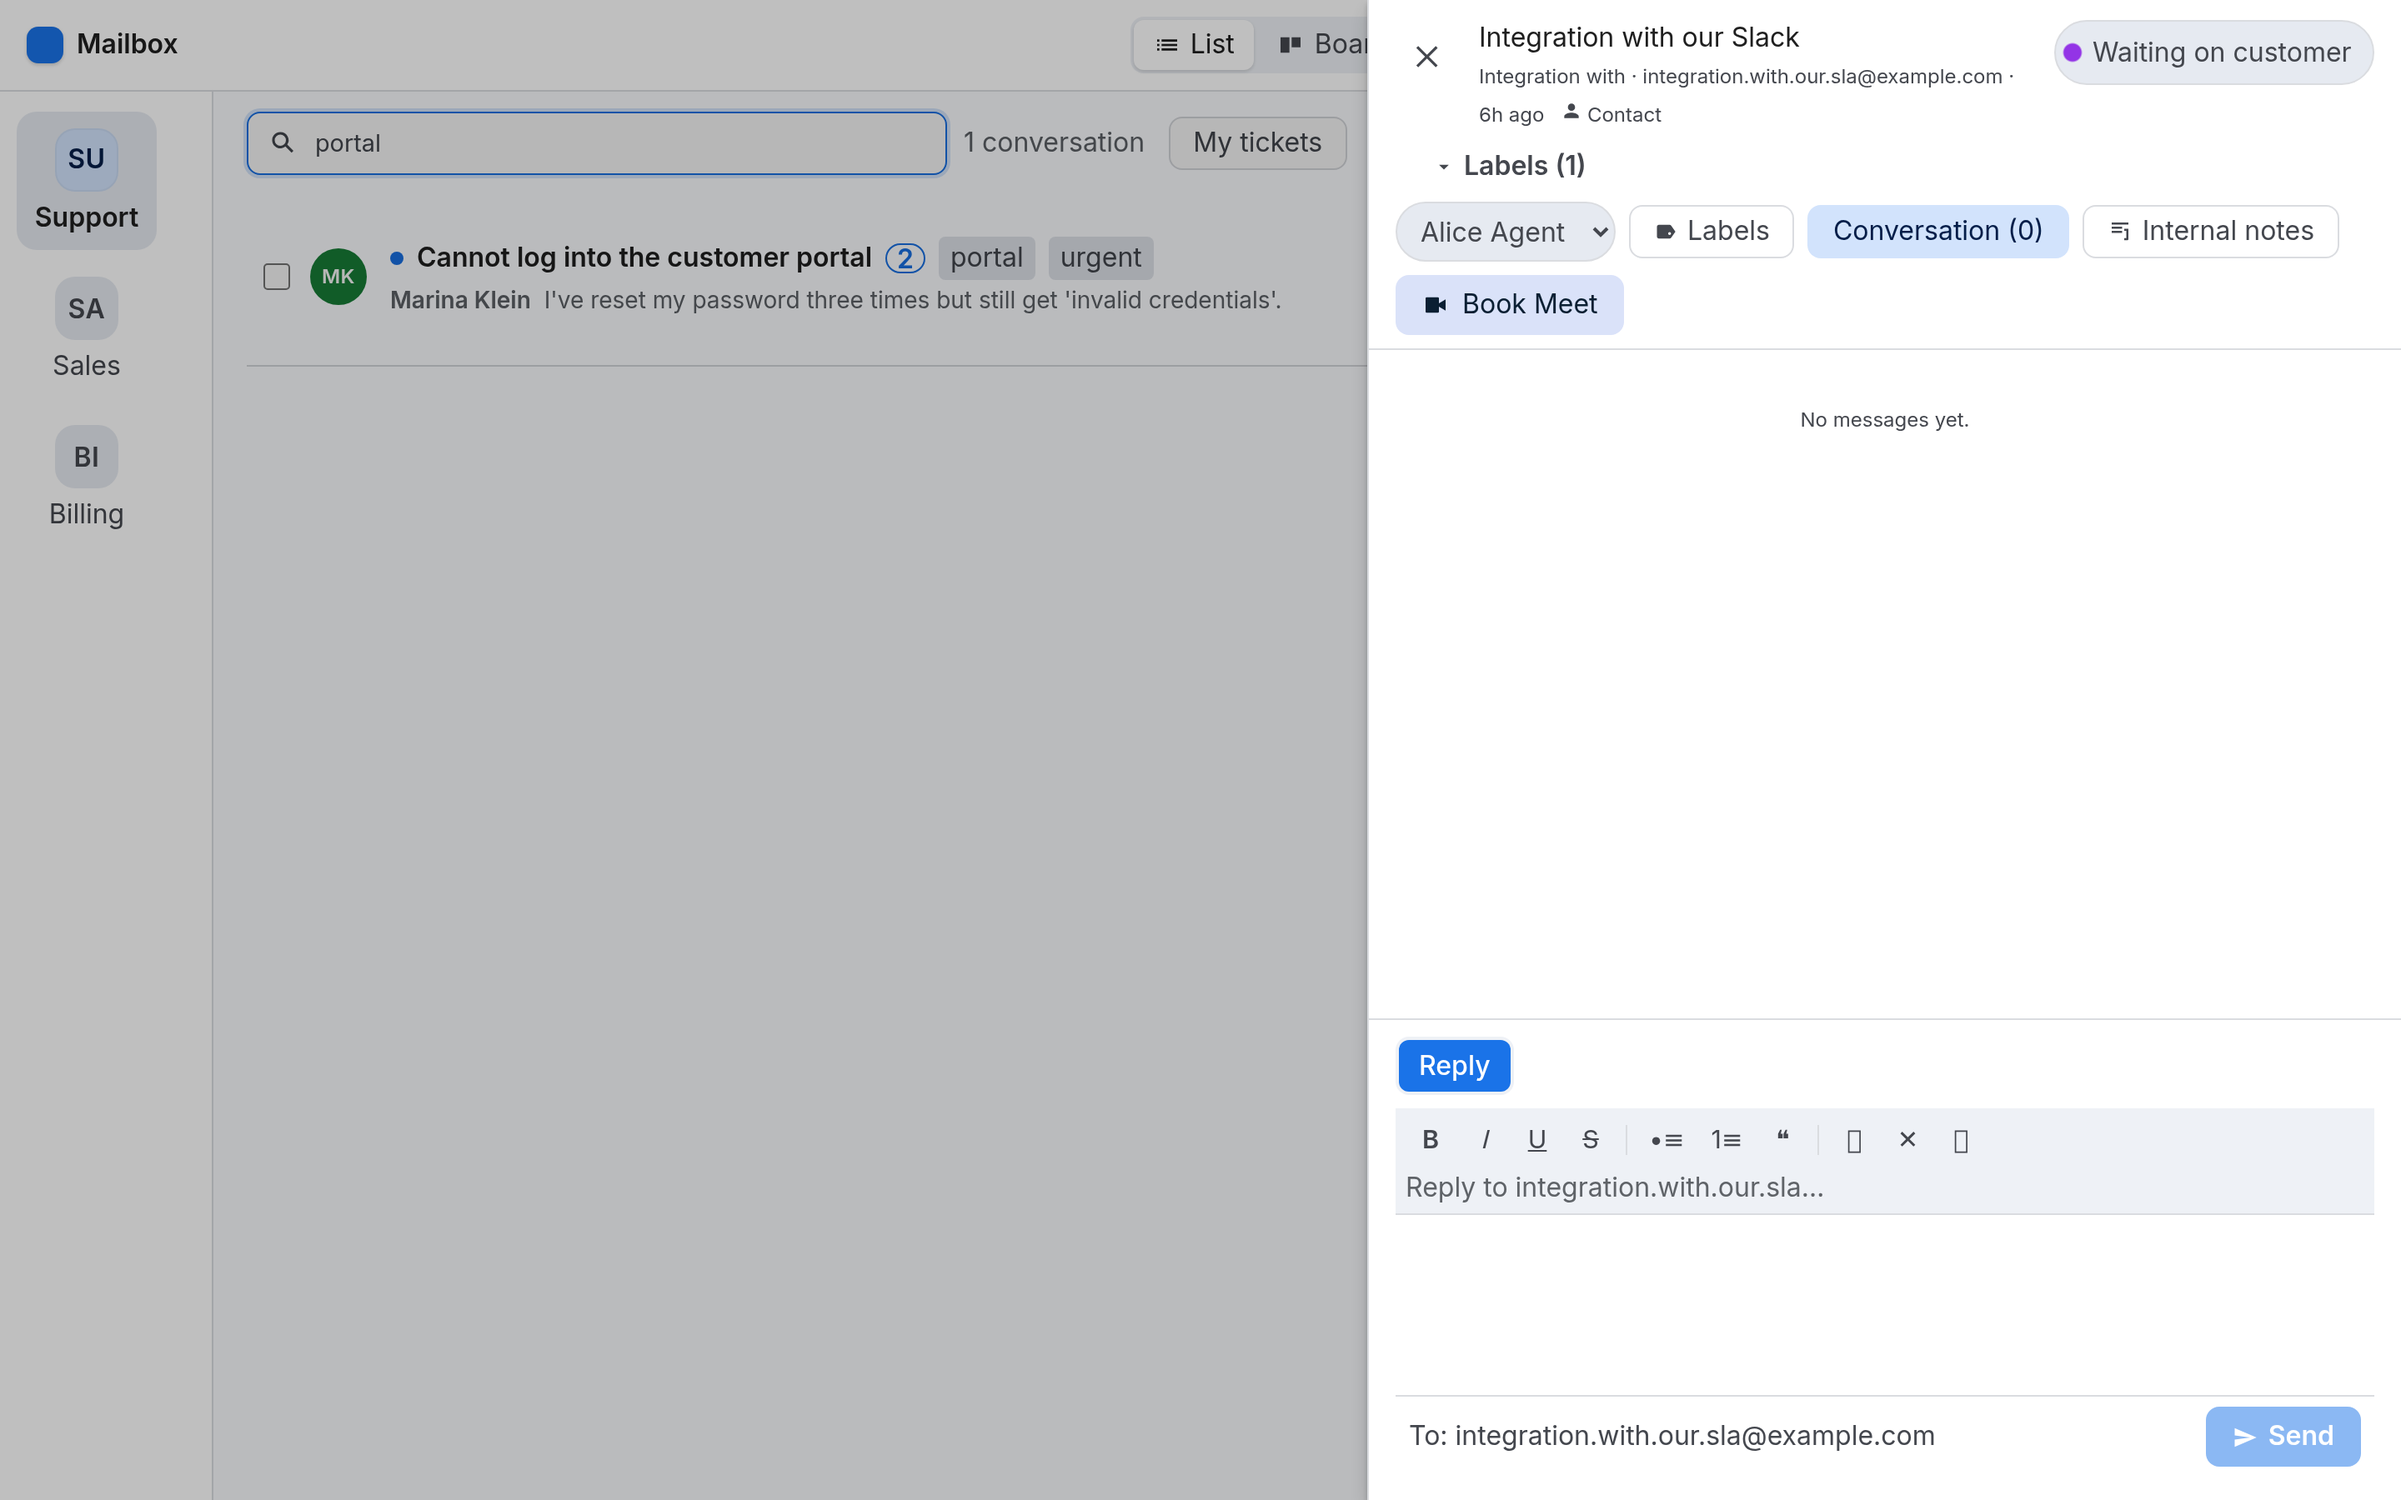
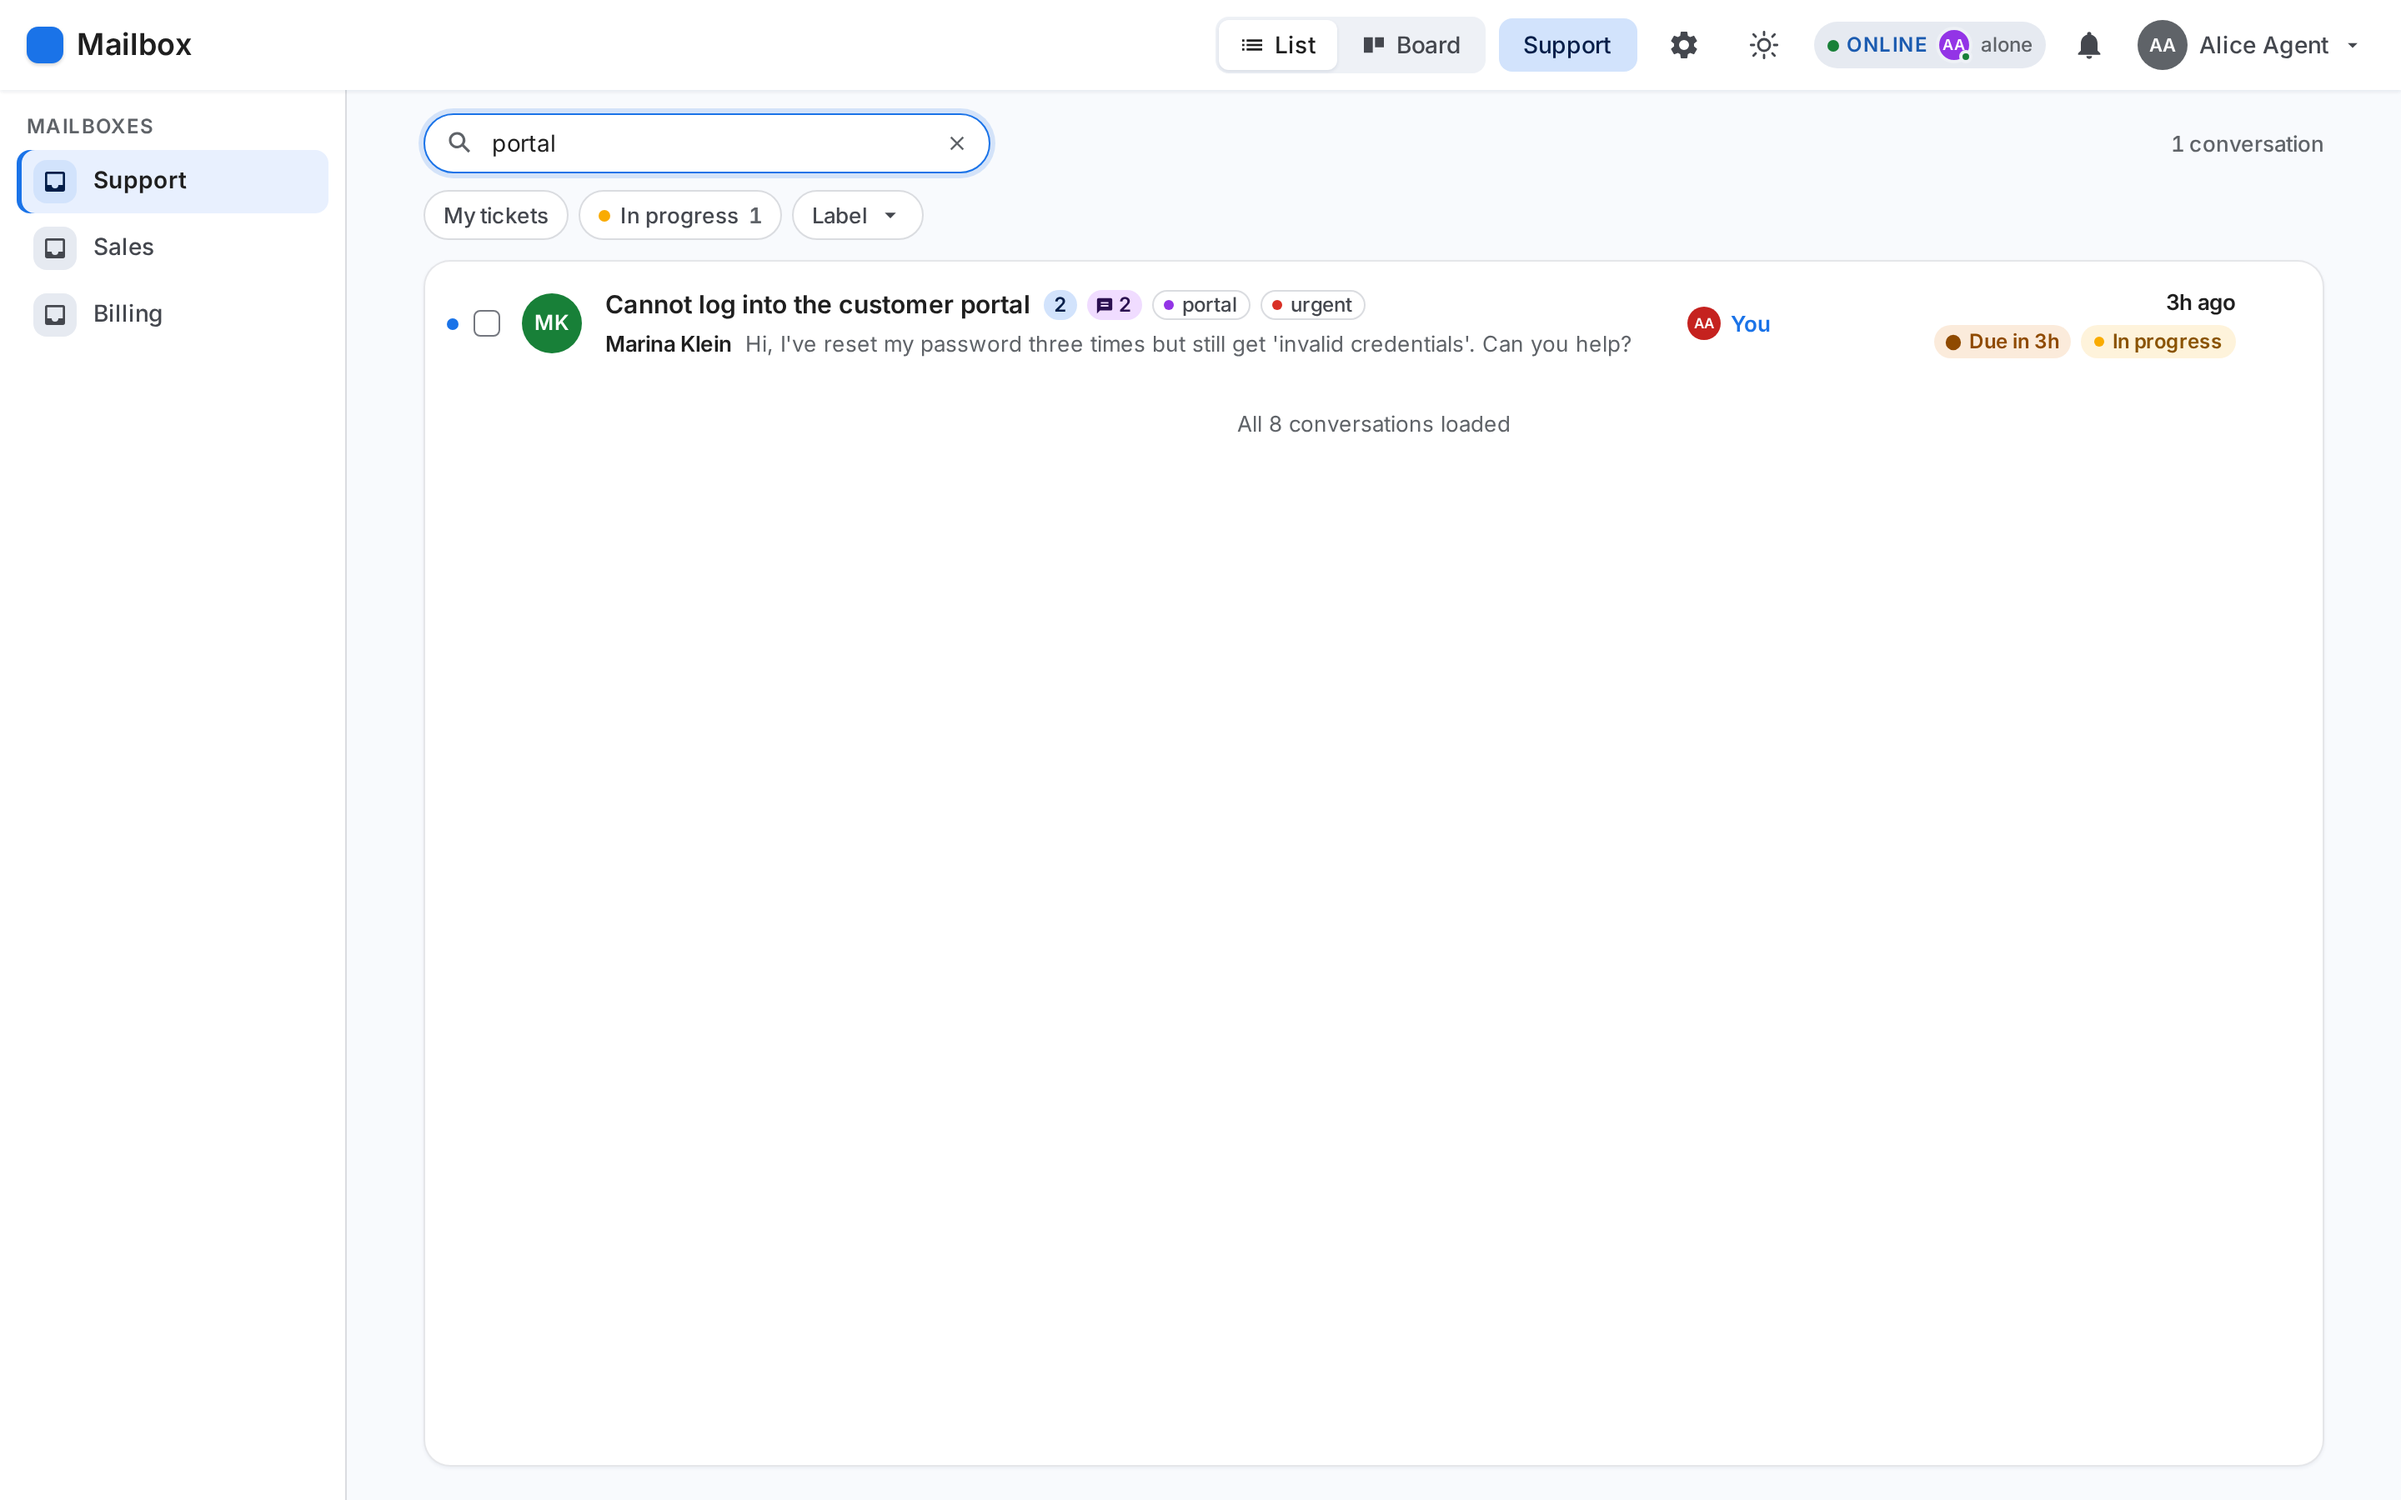
docs: retake all screenshots for the redesigned UI; update user guide
- Retake docs/screenshots/01–15 (same scenes and 2880x1800 size).
- User guide: ⋮ quick actions, phone tap-to-select, renamed bulk actions,
  conversation header/tabs, board keyboard shortcuts and Select mode.
- FEATURES.md: UI changes and a new Accessibility section.

diff --git a/docs/USER_GUIDE.md b/docs/USER_GUIDE.md
@@ -37,11 +37,11 @@ Sign in with your email + password, or **Continue with Google** if your admin ha
 |---|---|
 | **Left rail** | Your mailboxes (Support, Sales, Billing…). Click to switch. |
 | **Top bar** | **List / Board** toggle, the active mailbox name, ⚙ Settings, theme toggle, presence, notifications bell, and your account menu. |
-| **Toolbar** | Search, **My tickets**, status filter chips, and the conversation count. |
-| **Rows** | One conversation each: customer, subject, snippet, labels, assignee, status, SLA chip, time. |
-| **Hover a row** | A **⋯** button appears — assign or label the ticket without opening it. |
+| **Toolbar** | Search and the conversation count on top; **My tickets**, status and **Label** filter chips underneath. |
+| **Rows** | One conversation each: subject, message/note counts, labels, customer and snippet, assignee, and on the right the time, status and SLA chip. A blue dot in the left gutter marks new messages. |
+| **Hover a row** | A **⋮** button appears — assign or label the ticket without opening it. |
 
-**Keyboard/touch note:** on phones and tablets the **⋯** button is always visible (there's no hover on touch).
+**Phones:** rows show sender and time, then subject, snippet and a line of status/SLA chips. Tap a customer's **avatar** to select that conversation (it turns into a ✓) — the bulk bar appears. The **⋮** button is always visible on touch screens.
 
 ---
 
@@ -57,13 +57,13 @@ Type anything — subject, customer name, email, or snippet. The count at the to
 
 - **My tickets** — only conversations assigned to *you*.
 - **Status chips** (New / In progress / Waiting on customer / Escalated / Closed) — click to filter by status; click again to clear.
-- **Label chip** — click a label (e.g. `#billing`) to see only those conversations.
+- **Label** chip — opens the label list; pick one (e.g. `billing`) to see only those conversations.
 
-### Quick actions (⋯)
+### Quick actions (⋮)
 
 ![Quick actions](screenshots/03-quick-actions.png)
 
-Hover any row and click the **⋯** to, **without opening the thread**:
+Hover any row and click the **⋮** to, **without opening the thread**:
 
 - **Assign** the conversation to an agent (or Unassigned)
 - **Toggle labels** on/off
@@ -78,11 +78,11 @@ Click any conversation to open it on the right. The list stays visible on the le
 
 ![Thread drawer](screenshots/08-thread-drawer.png)
 
-**Header** — subject, customer, **Contact** (opens the contact panel with tags + related cases), and the status pill (click to change status).
+**Header** — subject and customer, then a row of controls: **status** (click to change), **assignee**, and **Contact** (opens the contact panel with tags + related cases).
 
-**Toolbar** — *Unassigned*/assignee, **Labels**, **Conversation** / **Internal notes** tabs, **Book Meet**.
+**Tabs** — **Conversation** / **Internal notes** (use ←/→ to switch), and **Details** for **Labels**, **Book Meet** and previous tickets. Press **Esc** to close the conversation (an open panel such as Contact closes first).
 
-**Conversation** — every message in order (oldest → newest). Attachments from customers appear as downloadable chips. Internal notes are shown in a distinct style and are never emailed.
+**Conversation** — every message in order (oldest → newest). Customer messages are white cards; your team's replies are tinted blue and tagged **Team reply**, so the back-and-forth reads at a glance. Attachments from customers appear as downloadable chips. Internal notes are shown in a distinct style and are never emailed.
 
 ### Replying
 
@@ -113,7 +113,18 @@ Each column is a status. Cards show the customer, subject, snippet, labels, assi
 
 ### Moving tickets
 
-**Drag a card onto another column** to change its status. The change saves immediately and shows up in every other open session within a few seconds.
+**Drag a card onto another column** to change its status — or, from the keyboard, select a card and press **Shift + ← / →**. The change saves immediately and shows up in every other open session within a few seconds.
+
+### Keyboard
+
+| Keys | Action |
+|---|---|
+| **← / →** | Move to the nearest card in the next lane (empty lanes are skipped) |
+| **↑ / ↓**, **Home / End** | Previous / next card in the lane; first / last |
+| **Shift + ← / →** | Move the selected card to the adjacent lane |
+| **Enter** | Open the conversation (**Esc** closes it and returns you to the card) |
+
+On phones the board shows one lane at a time — swipe sideways; it opens on the first lane that has conversations.
 
 ### Show / hide columns
 
@@ -123,7 +134,7 @@ Click **Columns** in the board toolbar to tick/untick statuses (each shows a liv
 
 ### Select mode
 
-Click **Select…** to check multiple cards (drag is disabled while selecting), then use the bulk bar at the top.
+Click **Select** in the board toolbar to check multiple cards (drag is disabled while selecting), then use the bulk bar at the top. Click **Done** to leave select mode.
 
 ---
 
@@ -151,15 +162,15 @@ Perfect for initial clean-up after connecting a mailbox.
 
 ![Bulk select](screenshots/05-bulk-select.png)
 
-1. Tick individual rows, or use **Select all N matching** after a search — this selects *every* conversation matching your filters, not just the visible ones.
+1. Tick individual rows (on phones, tap the avatars), or use **Select all N** after a search — this selects *every* conversation matching your filters, not just the visible ones.
 2. Choose an action:
    - **Close** — mark resolved
    - **Archive** — out of the way, still searchable (Archived chip/column)
-   - **Mark spam** — junk (Spam chip/column)
+   - **Spam** — junk (Spam chip/column); **Not spam** appears when the selection contains spam
    - **Delete** — permanently removes the conversation and its messages (**admins only**, asks to confirm)
-   - **Clear** — cancel the selection
+   - **✕** — cancel the selection
 
-**Tip:** clean up a noisy mailbox in seconds — search `Security alert` → **Select all matching** → **Mark spam**.
+**Tip:** clean up a noisy mailbox in seconds — search `Security alert` → **Select all** → **Spam**.
 
 ---
 
@@ -252,7 +263,7 @@ Check the thread — if it shows as sent, it went out. Replies go from the mailb
 The clock is anchored to the customer's real message date. Mail imported from history that was never answered is genuinely overdue. Close/archive those (see bulk actions) and they leave the queue.
 
 **How do I clean up hundreds of old conversations?**
-Search → **Select all matching** → **Mark spam** (or Archive/Delete for admins). See section 7.
+Search → **Select all** → **Spam** (or Archive/Delete for admins). See section 7.
 
 **A ticket is in Escalated — did something break?**
 No — that's the SLA monitor doing its job. Escalated means the ticket blew its deadline. Open it, read the ⏰ note, and work it like any other ticket.

diff --git a/docs/FEATURES.md b/docs/FEATURES.md
@@ -60,6 +60,16 @@ Self-edit via **My profile**; admins can set on agents' behalf (Settings → Peo
 
 ## UI / design
 Material-3 token palette refined toward a **Linear-style** aesthetic (see `ui polish pass 1–4` commits): **Inter** (self-hosted via `@fontsource`) across the type scale, **6–8px radii** instead of pills, hairline borders, quiet chrome (white topbar/nav rail), underline Settings tabs, elevated white cards on the board, and consistent focus rings. Screenshots: `docs/screenshots/`.
+- **Type scale** tokens in `m3.css` use valid `font` shorthand (weight before size) — the old order was invalid CSS and silently fell back to 16px/400 everywhere.
+- **Status & SLA colours are theme tokens** (`--st-*`, `--sla-*`, each with an `-ink` text variant) so light and dark both pass contrast.
+- **List**: aligned columns (gutter unread dot, assignee column, time/status right column); phones get a mail-app layout with tap-avatar-to-select. **Board**: tinted lanes, two-line card subjects, Select mode. **Reports**: stat tiles + thin bar charts.
+
+## Accessibility
+Audited with axe-core (WCAG 2.2 AA + best practice): **0 violations** on every screen in light and dark.
+- Skip-to-content link; one `h1` per page; landmarks; labelled icon buttons and selects.
+- Conversation drawer is a modal dialog: focus moves in, the page behind is `inert`, **Esc** closes (innermost panel first), focus returns to the row/card that opened it.
+- Keyboard: Settings and conversation tabs follow the WAI-ARIA tabs pattern (arrows/Home/End); board **←/→/↑/↓** navigation and **Shift+←/→** to move a card between lanes (keyboard alternative to drag-and-drop, announced via a live region).
+- Visible focus rings everywhere; text and avatar colours meet 4.5:1; respects `prefers-reduced-motion`.
 
 ## Not built / deferred
 - Customer-facing "where's my ticket" portal
